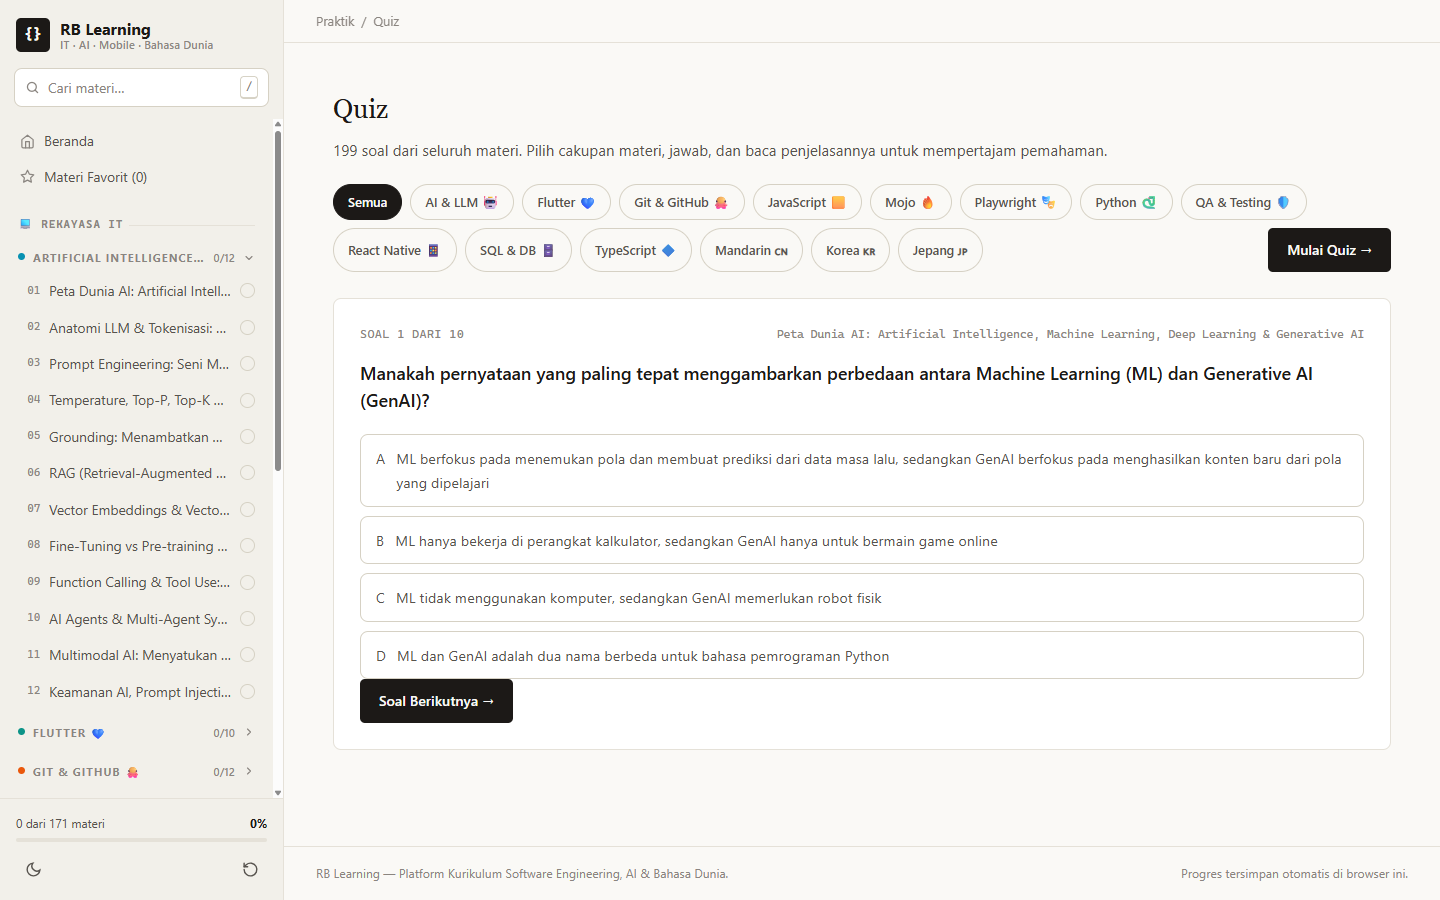
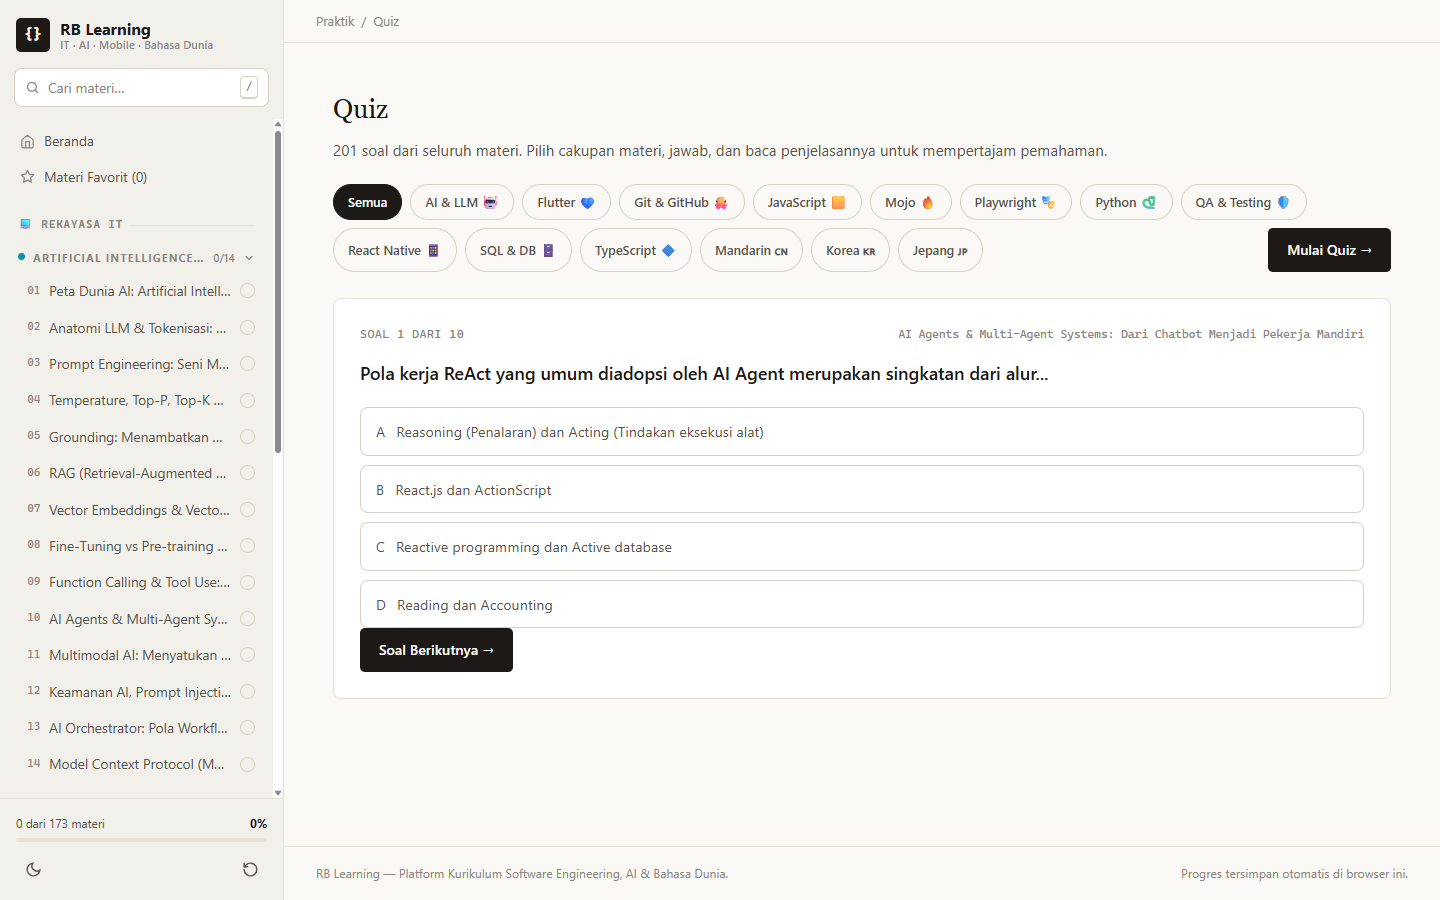
Add AI Orchestrator and Model Context Protocol (MCP) modules and quizzes

diff --git a/js/data.js b/js/data.js
@@ -233,6 +233,44 @@ const TRACKS = [
      "ans": 0,
      "why": "Indirect Prompt Injection terjadi ketika payload prompt berbahaya diselipkan ke dalam sumber data eksternal (email, halaman web, PDF) yang kemudian dibaca dan dieksekusi oleh model AI."
     }
+   },
+   {
+    "id": "ai-13",
+    "num": "13",
+    "title": "AI Orchestrator: Pola Workflow Multi-Agent, Routing & Task Decomposition",
+    "level": "Expert",
+    "intro": "Mengendalikan orkestra kecerdasan buatan: bagaimana arsitektur orkestrasi memecah tugas besar, mendelegasikan ke agen spesialis, dan mengelola alur state.",
+    "body": "\n        <h4>🏗 Analogi Mandor Proyek Toko Supriyanto</h4>\n        <p>Bayangkan Supriyanto ingin merenovasi toko kelontong menjadi supermarket modern. Proyek ini mustahil diselesaikan oleh satu pekerja serba bisa: tukang kayu tidak paham instalasi panel listrik, dan tukang cat tidak mengerti kalibrasi pendingin kulkas.\n        <br>Jika Supriyanto memaksa satu orang mengerjakan semuanya, pekerja itu akan bingung, kehabisan tenaga, dan melupakan instruksi awal.\n        <br>Di sinilah dibutuhkan seorang <b>Mandor (AI Orchestrator)</b> yang tidak mengaduk semen sendiri, melainkan memimpin seluruh orkestra proyek!</p>\n\n        <h4>🧭 Empat Tugas Pokok AI Orchestrator</h4>\n        <ul>\n          <li><b>1. Task Decomposition (Pemecahan Tugas):</b> Menerima tujuan besar dari Supriyanto, lalu memecahnya menjadi rencana kerja bertahap (sub-tugas terstruktur).</li>\n          <li><b>2. Intelligent Routing (Pemilihan Agen Terbaik):</b> Menilai tiap sub-tugas dan memilihkan model/agen yang paling tepat (misal: tugas koding dikirim ke Claude/Gemini Pro, sedangkan klasifikasi cepat dikirim ke model Flash yang murah dan kilat).</li>\n          <li><b>3. State &amp; Context Management:</b> Membagikan informasi secukupnya ke setiap pekerja agar context window masing-masing agen tidak penuh sesak oleh data yang tidak relevan.</li>\n          <li><b>4. Synthesis &amp; Quality Gate:</b> Mengumpulkan hasil kerja dari seluruh agen pekerja, memeriksa apakah ada cacat atau kontradiksi, lalu merangkum laporan final untuk Supriyanto.</li>\n        </ul>\n\n        <h4>🔄 Tiga Pola Desain Alur Orkestrasi Populer</h4>\n        <div class=\"code-block\">A. ROUTING PATTERN:\n   [Prompt User] ──► [Router Orchestrator] ──┬──► [Agent Ahli Finansial]\n                                             └──► [Agent Ahli Hukum/Legal]\n\nB. ORCHESTRATOR-WORKERS PATTERN:\n   [Goal Utama] ──► [Orchestrator] ──┬──► [Worker 1: Riset Data] ──┐\n                                     ├──► [Worker 2: Tulis Kode]  ──┼──► [Sintesis Akhir]\n                                     └──► [Worker 3: Uji QA]     ──┘\n\nC. EVALUATOR-OPTIMIZER LOOP:\n   [Agent Pembuat Draft] ──► [Draft Hasil] ──► [Agent Penilai / Critic]\n         ▲                                                │\n         └───────────── [Minta Revisi &amp; Perbaikan] ───────┘ (Ulangi hingga lolos kriteria)</div>\n      ",
+    "quiz": {
+     "q": "Apa peran utama dari komponen Orchestrator dalam arsitektur AI Multi-Agent modern?",
+     "opts": [
+      "Memecah target besar menjadi sub-tugas terencana, mendelegasikannya ke agen spesialis yang tepat, dan menggabungkan hasil akhirnya secara teratur",
+      "Menghubungkan kabel charger fisik ke stopkontak listrik",
+      "Menghapus seluruh file data pengguna secara acak",
+      "Menggantikan fungsi layar monitor komputer"
+     ],
+     "ans": 0,
+     "why": "AI Orchestrator bertindak sebagai konduktor pengendali yang memecah tugas kompleks, merutekan instruksi ke agen spesialis yang sesuai, mengelola alur status (state), dan mensintesis hasil akhir."
+    }
+   },
+   {
+    "id": "ai-14",
+    "num": "14",
+    "title": "Model Context Protocol (MCP): Standar Universal Integrasi Tool & Data AI",
+    "level": "Expert",
+    "intro": "Masa depan ekosistem AI: memahami protokol open-standard yang menjadi colokan USB-C universal antara asisten AI dan sistem data dunia nyata.",
+    "body": "\n        <h4>🔌 Analogi Colokan Universal USB-C Toko Supriyanto</h4>\n        <p>Di masa lalu, setiap merek handphone memiliki jenis colokan kabel charger yang berbeda-beda. Jika toko Supriyanto menjual 5 jenis HP dan 5 jenis aksesoris, Supriyanto pusing harus menyediakan 25 variasi kabel adaptor yang kusut (<b>Masalah N x M</b>). Kehadiran <b>USB-C</b> menyelesaikan semua kekacauan itu: satu bentuk colokan standar untuk semua alat!</p>\n        <p>Hal yang sama terjadi pada integrasi AI:\n        <br>Sebelum ada standar, jika ada 4 aplikasi AI (Claude, Cursor, Gemini, Antigravity) dan ingin terhubung ke 4 sistem data (Postgres, GitHub, Slack, Google Drive), developer harus membangun belasan konektor kustom yang rapuh.\n        <br><b>Model Context Protocol (MCP)</b> adalah standar terbuka (open standard) yang diciptakan Anthropic agar model AI apa pun dapat langsung \"mencolok\" ke sumber data apa pun dengan satu bahasa protokol standar (JSON-RPC)!</p>\n\n        <h4>🏛 Tiga Kemampuan Primitif yang Disediakan MCP Server</h4>\n        <table class=\"zh-table\">\n          <thead><tr><th>Fitur MCP</th><th>Sifat Aksi</th><th>Contoh di Toko Supriyanto</th></tr></thead>\n          <tbody>\n            <tr><td><b>Tools</b></td><td>Aktif (Dapat dieksekusi)</td><td>Menjalankan query SQL untuk potong stok barang, membuat issue di GitHub, mengirim pesan notifikasi ke WhatsApp/Slack.</td></tr>\n            <tr><td><b>Resources</b></td><td>Pasif (Hanya dibaca)</td><td>Membaca schema tabel database, membaca file log error server, meninjau dokumen PDF SOP toko.</td></tr>\n            <tr><td><b>Prompts</b></td><td>Panduan Alur</td><td>Template prompt siap pakai dari server (misal: <i>\"analisis-laporan-keuangan-bulanan\"</i>).</td></tr>\n          </tbody>\n        </table>\n\n        <h4>🛡 Keamanan &amp; Human-in-the-Loop</h4>\n        <p>Protokol MCP dirancang sangat mengutamakan keamanan. Setiap kali AI meminta eksekusi alat (Tool) yang berisiko mengubah data atau mentransfer dana, MCP Client mewajibkan adanya konfirmasi izin eksplisit dari pengguna manusia sebelum perintah dijalankan.</p>\n      ",
+    "quiz": {
+     "q": "Mengapa Model Context Protocol (MCP) sering disebut sebagai 'USB-C untuk ekosistem AI'?",
+     "opts": [
+      "Karena MCP menyediakan satu standar protokol terbuka universal sehingga aplikasi AI mana pun dapat terhubung ke berbagai alat dan sumber data tanpa perlu membuat adaptor konektor kustom terpisah",
+      "Karena MCP adalah kabel fisik yang harus dicolokkan ke motherboard komputer",
+      "Karena MCP diciptakan khusus hanya untuk mengisi daya baterai smartphone",
+      "Karena MCP hanya dapat digunakan pada sistem operasi Linux saja"
+     ],
+     "ans": 0,
+     "why": "MCP mengeliminasi fragmentasi integrasi perangkat lunak dengan menyediakan protokol terbuka standar tunggal berbasis JSON-RPC yang menghubungkan MCP Client (aplikasi AI) dengan MCP Server (sumber data dan alat eksternal)."
+    }
    }
   ]
  },
@@ -3446,6 +3484,32 @@ const QUIZ_BANK = [
   ],
   "ans": 0,
   "why": "Indirect Prompt Injection terjadi ketika payload prompt berbahaya diselipkan ke dalam sumber data eksternal (email, halaman web, PDF) yang kemudian dibaca dan dieksekusi oleh model AI."
+ },
+ {
+  "track": "ai",
+  "topic": "AI Orchestrator: Pola Workflow Multi-Agent, Routing & Task Decomposition",
+  "q": "Apa peran utama dari komponen Orchestrator dalam arsitektur AI Multi-Agent modern?",
+  "opts": [
+   "Memecah target besar menjadi sub-tugas terencana, mendelegasikannya ke agen spesialis yang tepat, dan menggabungkan hasil akhirnya secara teratur",
+   "Menghubungkan kabel charger fisik ke stopkontak listrik",
+   "Menghapus seluruh file data pengguna secara acak",
+   "Menggantikan fungsi layar monitor komputer"
+  ],
+  "ans": 0,
+  "why": "AI Orchestrator bertindak sebagai konduktor pengendali yang memecah tugas kompleks, merutekan instruksi ke agen spesialis yang sesuai, mengelola alur status (state), dan mensintesis hasil akhir."
+ },
+ {
+  "track": "ai",
+  "topic": "Model Context Protocol (MCP): Standar Universal Integrasi Tool & Data AI",
+  "q": "Mengapa Model Context Protocol (MCP) sering disebut sebagai 'USB-C untuk ekosistem AI'?",
+  "opts": [
+   "Karena MCP menyediakan satu standar protokol terbuka universal sehingga aplikasi AI mana pun dapat terhubung ke berbagai alat dan sumber data tanpa perlu membuat adaptor konektor kustom terpisah",
+   "Karena MCP adalah kabel fisik yang harus dicolokkan ke motherboard komputer",
+   "Karena MCP diciptakan khusus hanya untuk mengisi daya baterai smartphone",
+   "Karena MCP hanya dapat digunakan pada sistem operasi Linux saja"
+  ],
+  "ans": 0,
+  "why": "MCP mengeliminasi fragmentasi integrasi perangkat lunak dengan menyediakan protokol terbuka standar tunggal berbasis JSON-RPC yang menghubungkan MCP Client (aplikasi AI) dengan MCP Server (sumber data dan alat eksternal)."
  },
  {
   "track": "flutter",

diff --git a/index.html b/index.html
@@ -38,7 +38,7 @@
   <div class="side-foot">
     <div class="side-progress">
       <div class="sp-top">
-        <span id="spLabel">0 dari 171 materi</span>
+        <span id="spLabel">0 dari 173 materi</span>
         <span id="spPct">0%</span>
       </div>
       <div class="sp-track"><div class="sp-fill" id="spFill"></div></div>
